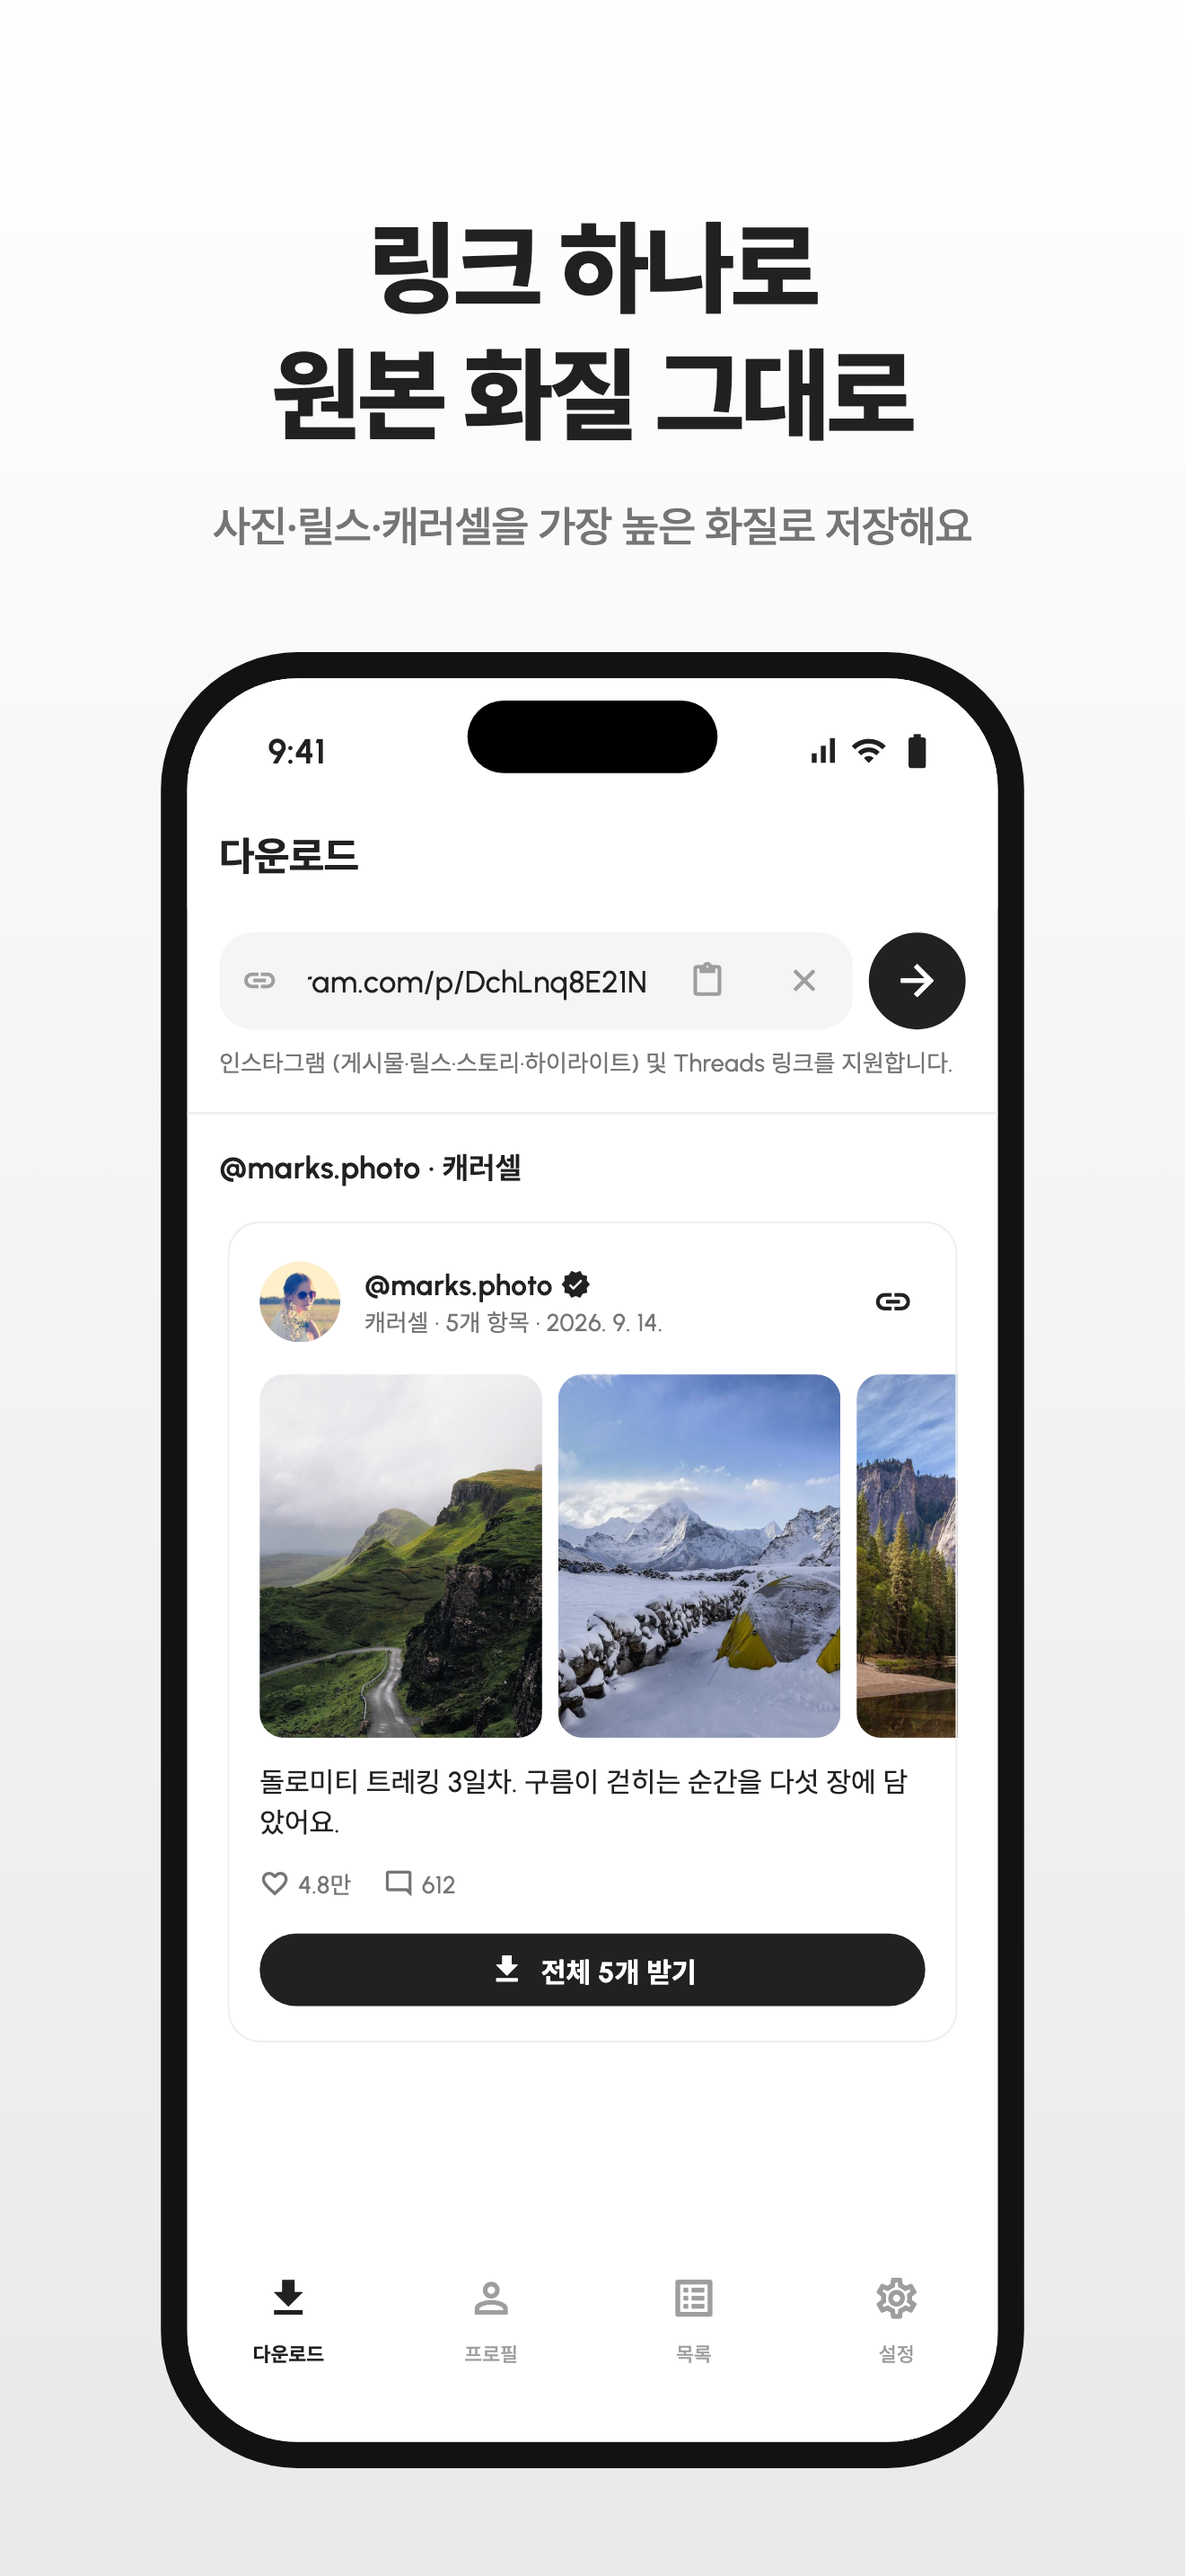
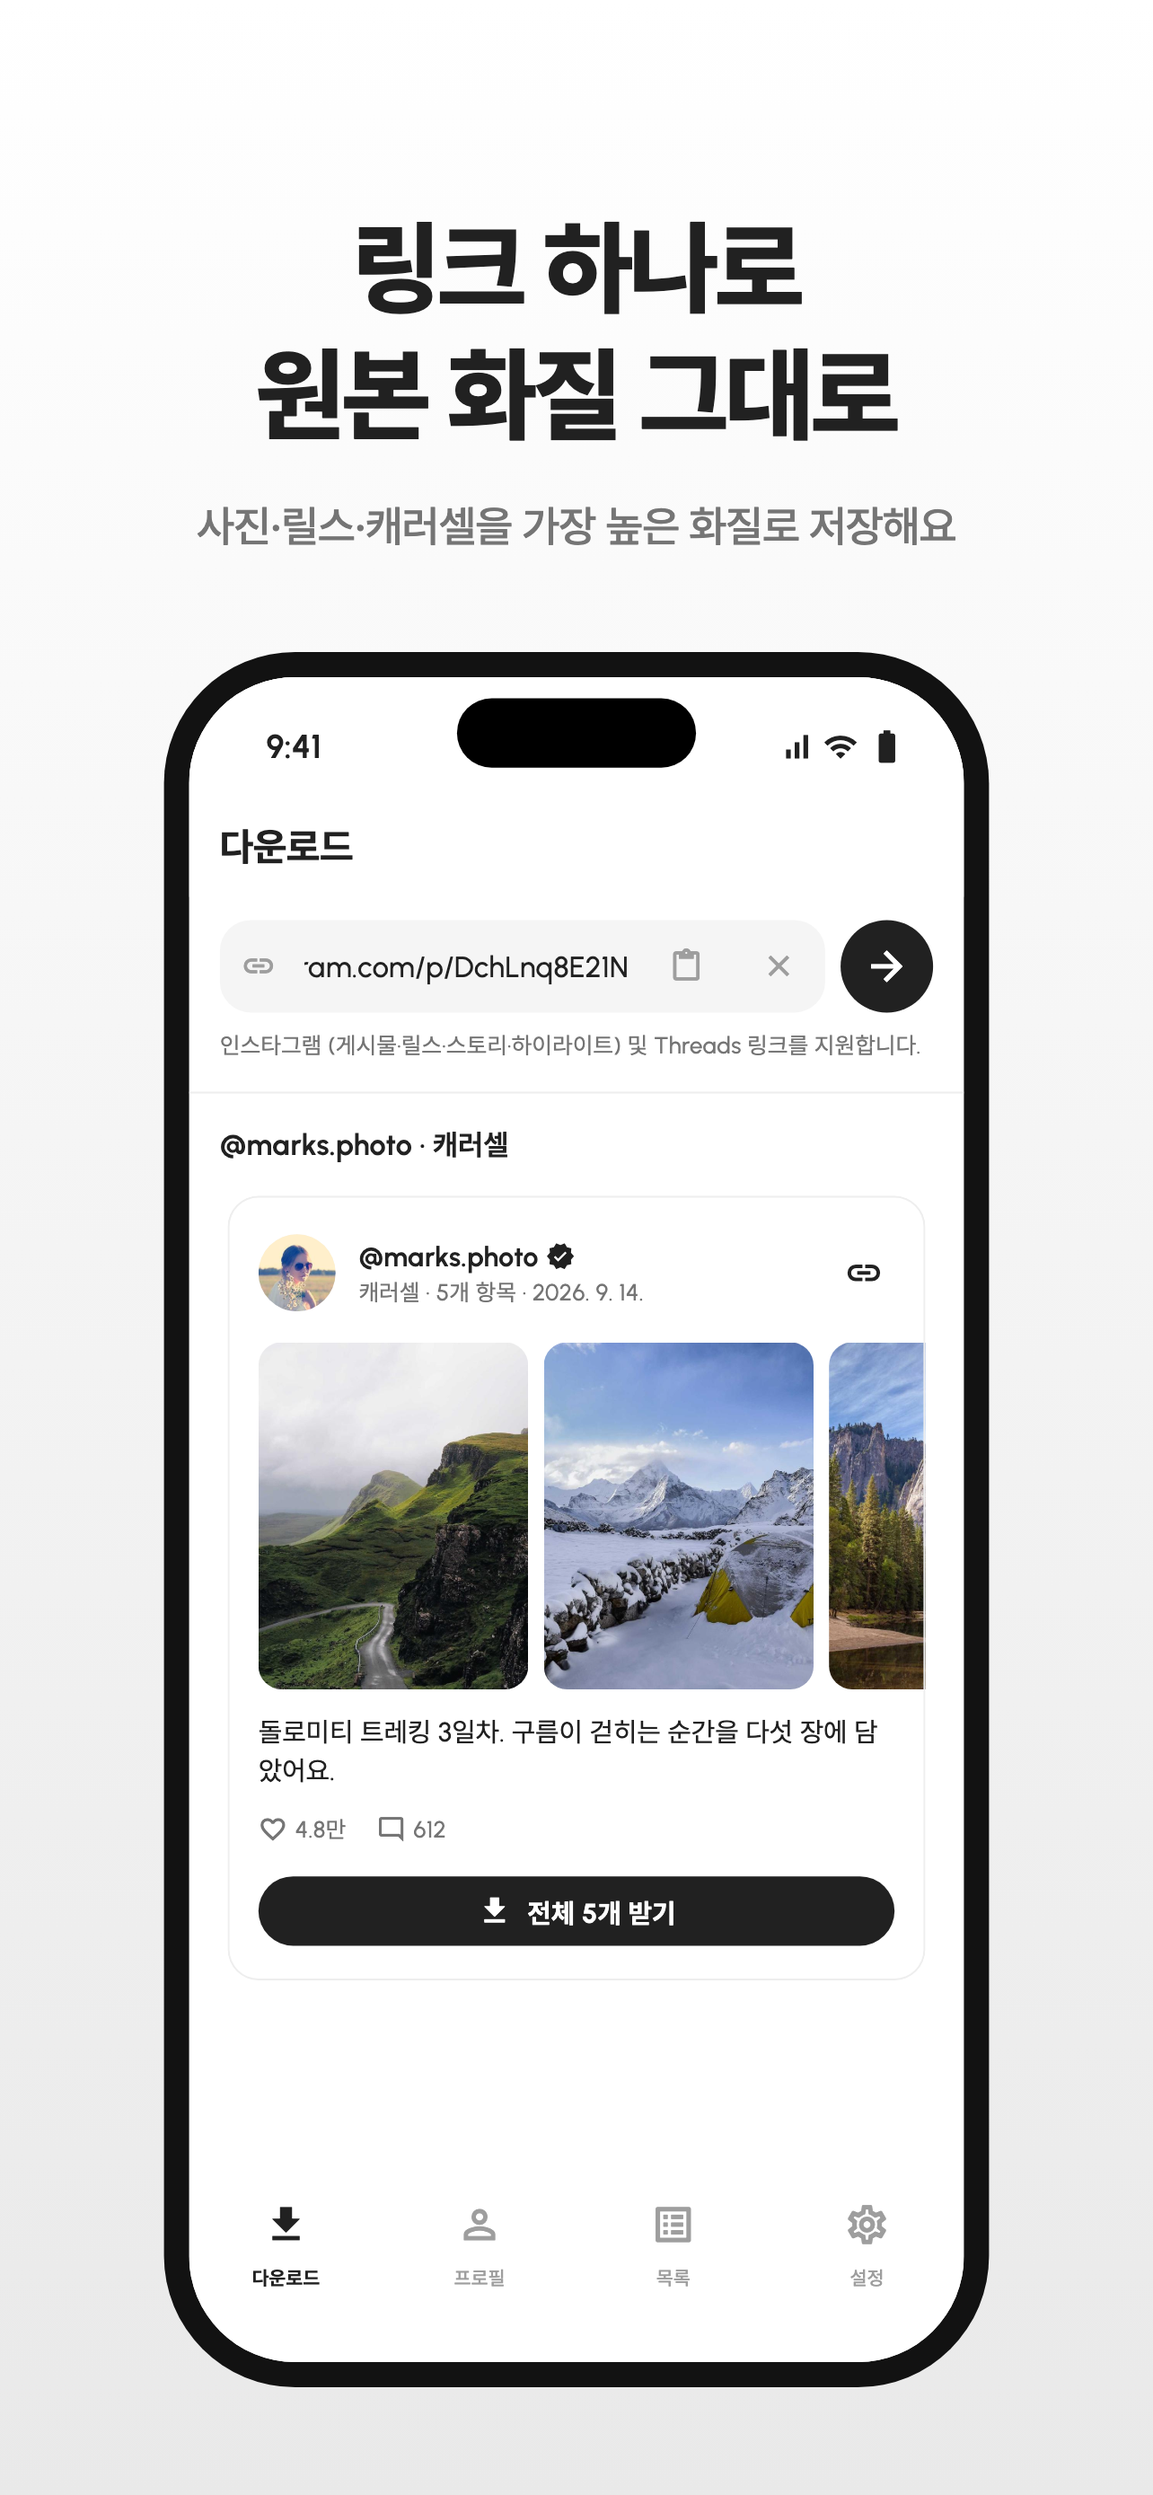
Render App Store screenshots at 1284x2778 (6.7")
App Store Connect accepts 1242x2688 or 1284x2778 for this slot, not the
6.9" 1320x2868 size. Also re-center the share card in the smaller frame.

Claude-Session: https://claude.ai/code/session_01FA7pPUkzbT9RCRNodFPSXE

diff --git a/test/store/store_screenshots_test.dart b/test/store/store_screenshots_test.dart
@@ -25,7 +25,7 @@ import 'package:townloader/ui/profile_screen.dart';
 import 'package:townloader/ui/root_shell.dart';
 import 'package:townloader/ui/theme.dart';
 
-/// App Store 업로드용 스크린샷(6.9" iPhone, 1320×2868)을 만든다.
+/// App Store 업로드용 스크린샷(6.7" iPhone, 1284×2778)을 만든다.
 ///
 /// 실제 앱 화면을 폰 목업에 넣고 위에 문구를 얹는다. 평소 테스트에서는 건너뛴다.
 ///
@@ -125,8 +125,8 @@ void main() {
 
 // ── 캔버스 ────────────────────────────────────────────────────────────────────
 
-/// App Store 6.9" 규격. 논리 크기 440×956 을 3배로 찍는다.
-const _canvas = Size(440, 956);
+/// App Store Connect 가 받는 6.7" 규격(1284×2778). 논리 크기 428×926 을 3배로 찍는다.
+const _canvas = Size(428, 926);
 const _pixelRatio = 3.0;
 
 /// 목업 안 화면은 iPhone 16 Pro 논리 크기.
@@ -272,7 +272,7 @@ class _StoreFrame extends StatelessWidget {
                   child: FittedBox(child: _PhoneMockup(screen: screen)),
                 ),
                 if (badge case final badge?)
-                  Positioned(top: 500, child: badge),
+                  Positioned(top: 486, child: badge),
               ],
             ),
           ),
